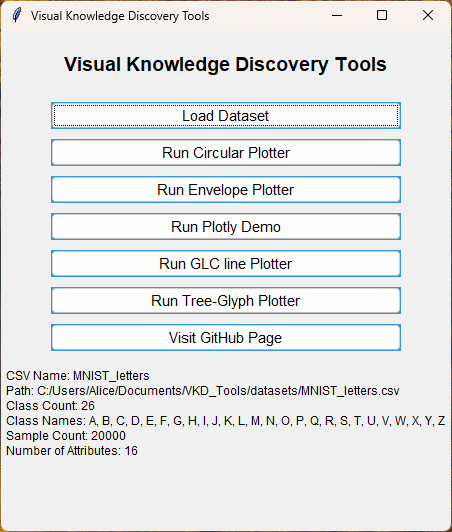
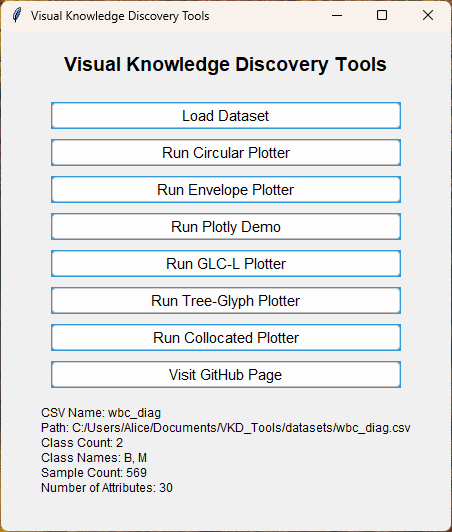
Plot GLC-L in reflected subplots

Changed region(s): [[0.0, 0.6015, 0.9912, 0.9323], [0.3407, 0.4812, 0.6504, 0.5113]]

diff --git a/glc_line_plotter.py b/glc_line_plotter.py
@@ -55,32 +55,61 @@ def plot_glyphs(df, dataset_name):
     colors = plt.cm.jet(np.linspace(0, 1, len(unique_labels)))
     label_to_color = dict(zip(unique_labels, colors))
     
-    plt.figure(figsize=(10, 10))
-    furthest_endpoints = {label: 0 for label in unique_labels}
+    # Create a figure to hold the subplots
+    plt.figure(figsize=(10, 20))
     
+    # Initialize variable to store maximum x value across both plots
+    max_x_value = 0
+    
+    # Calculate maximum x value for setting x-axis limits
     for index, row in df.iterrows():
+        x_prev = 0
+        for feature in feature_columns:
+            a_i = row[feature]
+            theta_i = np.abs(a_i)
+            x_i = x_prev + a_i * np.cos(theta_i)
+            x_prev = x_i
+        max_x_value = max(max_x_value, x_i)
+    
+    # First subplot for the first class
+    plt.subplot(2, 1, 1)
+    
+    first_class = unique_labels[0]
+    
+    for index, row in df[df[label_column] == first_class].iterrows():
         x_prev, y_prev = 0, 0
         for feature in feature_columns:
             a_i = row[feature]
-            theta_i = np.abs(a_i)  # Replaced arccos(abs(a_i)) with abs(a_i)
+            theta_i = np.abs(a_i)
             x_i = x_prev + a_i * np.cos(theta_i)
             y_i = y_prev + a_i * np.sin(theta_i)
             plt.plot([x_prev, x_i], [y_prev, y_i], color=label_to_color[row[label_column]])
             x_prev, y_prev = x_i, y_i
-        furthest_endpoints[row[label_column]] = max(furthest_endpoints[row[label_column]], x_i)
-            
-    for label, x in furthest_endpoints.items():
-        plt.plot([x, x], [0, 0.1], color=label_to_color[label], linestyle='--', linewidth=2)
+    
+    plt.xlim(0, max_x_value + 0.1)  # Set x-axis limits
+    plt.title(f'GLC-L Type Graph of {dataset_name} - Class: {first_class}')
+    
+    # Second subplot for additional classes with inverted y-axis
+    plt.subplot(2, 1, 2)
+    
+    for index, row in df[df[label_column] != first_class].iterrows():
+        x_prev, y_prev = 0, 0
+        for feature in feature_columns:
+            a_i = row[feature]
+            theta_i = np.abs(a_i)
+            x_i = x_prev + a_i * np.cos(theta_i)
+            y_i = y_prev + a_i * np.sin(theta_i)
+            plt.plot([x_prev, x_i], [y_prev, y_i], color=label_to_color[row[label_column]])
+            x_prev, y_prev = x_i, y_i
+    
+    plt.xlim(0, max_x_value + 0.1)  # Set x-axis limits
+    plt.gca().invert_yaxis()  # Invert y-axis
+    plt.title(f'GLC-L Graph of {dataset_name} - Additional Classes')
     
     custom_lines = [plt.Line2D([0], [0], color=color, lw=4) for color in label_to_color.values()]
     plt.legend(custom_lines, unique_labels, title='Class')
     
-    plt.title(f'GLC-L Type Graph of {dataset_name}')  # Removed angle_function from title
-
     def close(event):
-        """
-        Close the plot window on pressing 'Escape' or 'Ctrl+W' keys.
-        """
         if event.key == 'escape' or (event.key == 'w' and event.inaxes == None):
             plt.close(event.canvas.figure)
             

diff --git a/menu.py b/menu.py
@@ -55,7 +55,7 @@ def main():
     plotly_demo_button.pack(pady=5, fill='x', padx=50)
 
     global glyph_2d_button
-    glyph_2d_button = ttk.Button(app, text="Run GLC line Plotter", command=launch_glc_line_plotter, state=tk.DISABLED)
+    glyph_2d_button = ttk.Button(app, text="Run GLC-L Plotter", command=launch_glc_line_plotter, state=tk.DISABLED)
     glyph_2d_button.pack(pady=5, fill='x', padx=50)
 
     global tree_glyph_button
